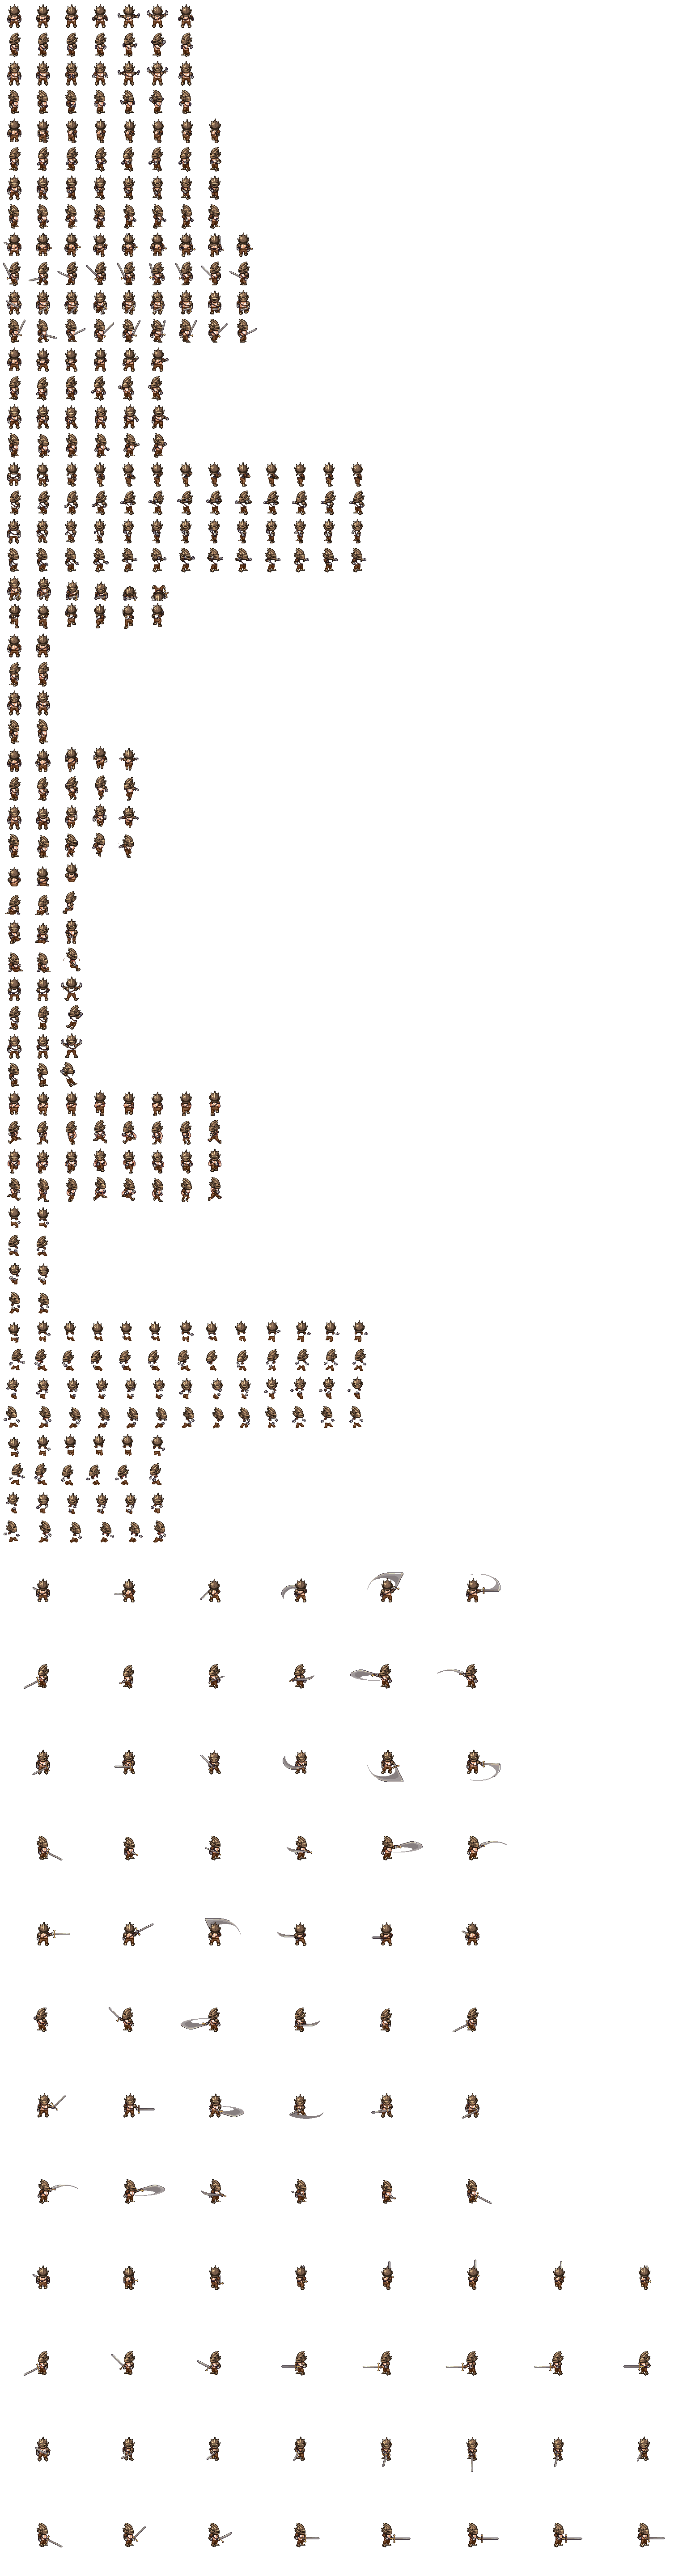
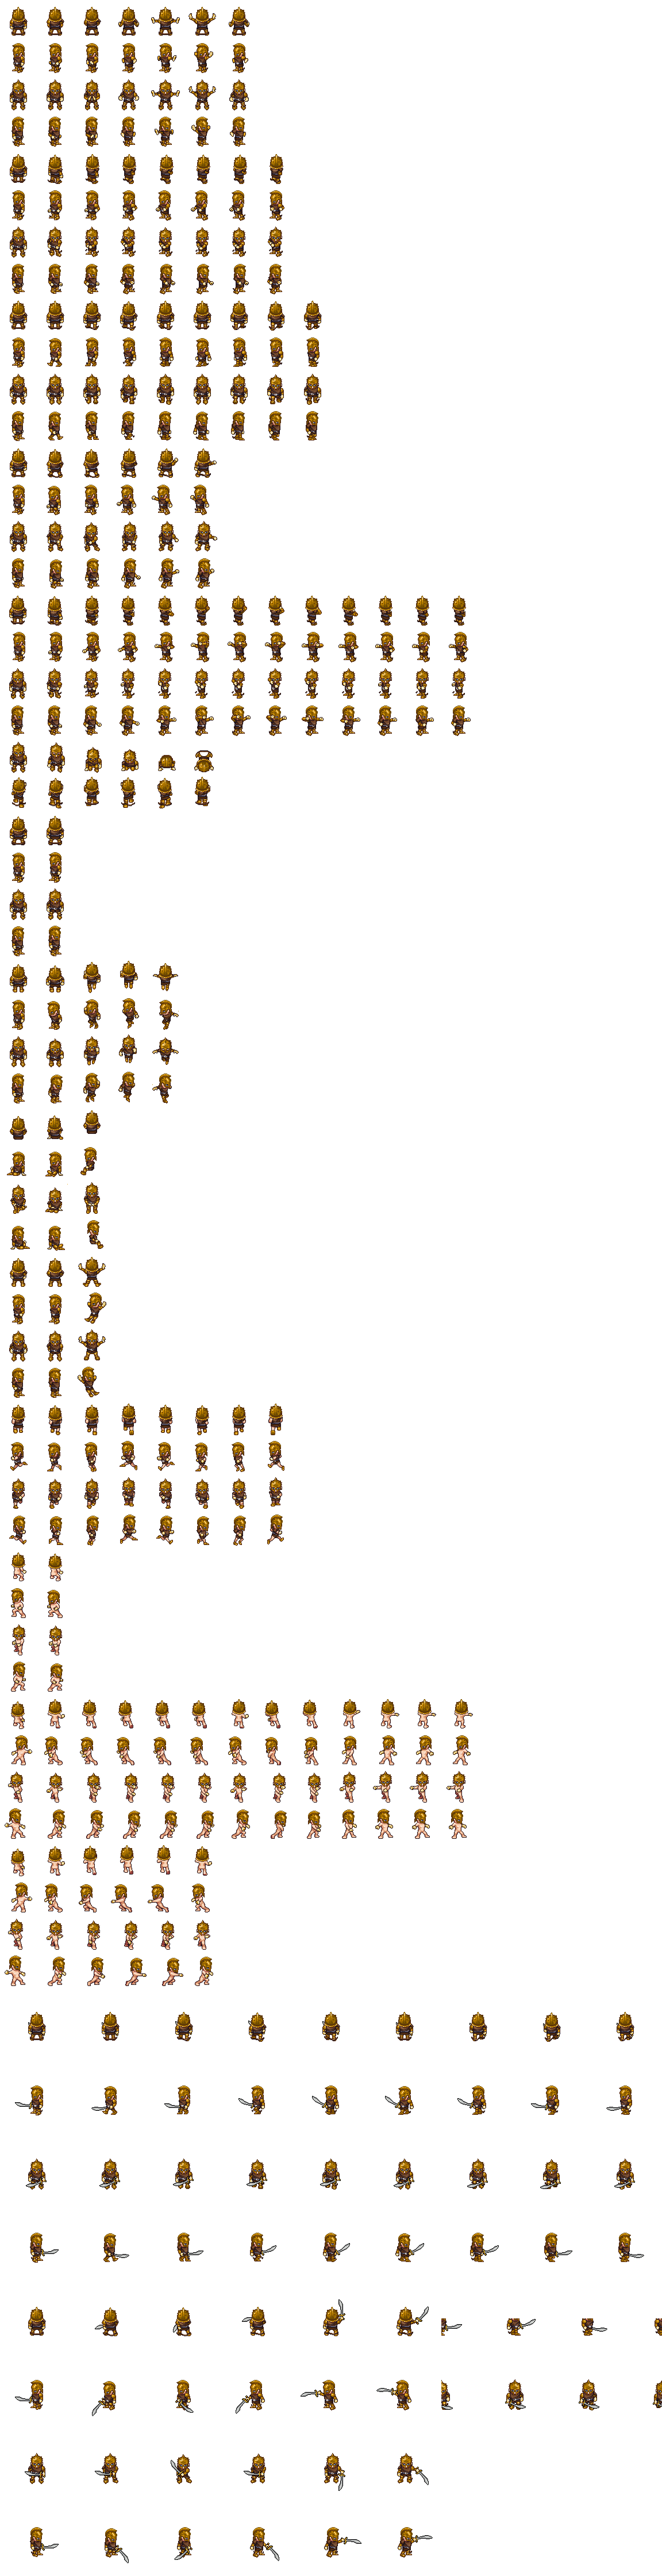
Add files via upload

diff --git a/MAP/js/11-render.js b/MAP/js/11-render.js
@@ -179,6 +179,7 @@ function drawEdgeArrows() {
   if (typeof orcs !== "undefined") lists.push(orcs);
   if (typeof soldiers !== "undefined") lists.push(soldiers);
   if (typeof goblins !== "undefined") lists.push(goblins);
+  if (typeof archers !== "undefined") lists.push(archers); // [KALE] okçular da kenar işaretçisi alır
   for (const arr of lists) {
     for (const e of arr) {
       if (e.dead) continue;
@@ -190,7 +191,7 @@ function drawEdgeArrows() {
       ey = Math.max(pad, Math.min(canvas.height - pad, ey));
       ctx.save();
       ctx.translate(ex, ey); ctx.rotate(ang); ctx.globalAlpha = 0.72;
-      ctx.fillStyle = e.type === "goblin" ? "#8fd98f" : e.type === "soldier" ? "#aab4c8" : "#c9a24a";
+      ctx.fillStyle = e.type === "goblin" ? "#8fd98f" : e.type === "soldier" ? "#aab4c8" : e.type === "archer" ? "#6aa8d8" : "#c9a24a"; // [KALE] okçu mavi
       ctx.beginPath(); ctx.moveTo(10, 0); ctx.lineTo(-7, -7); ctx.lineTo(-7, 7); ctx.closePath(); ctx.fill();
       ctx.restore();
     }